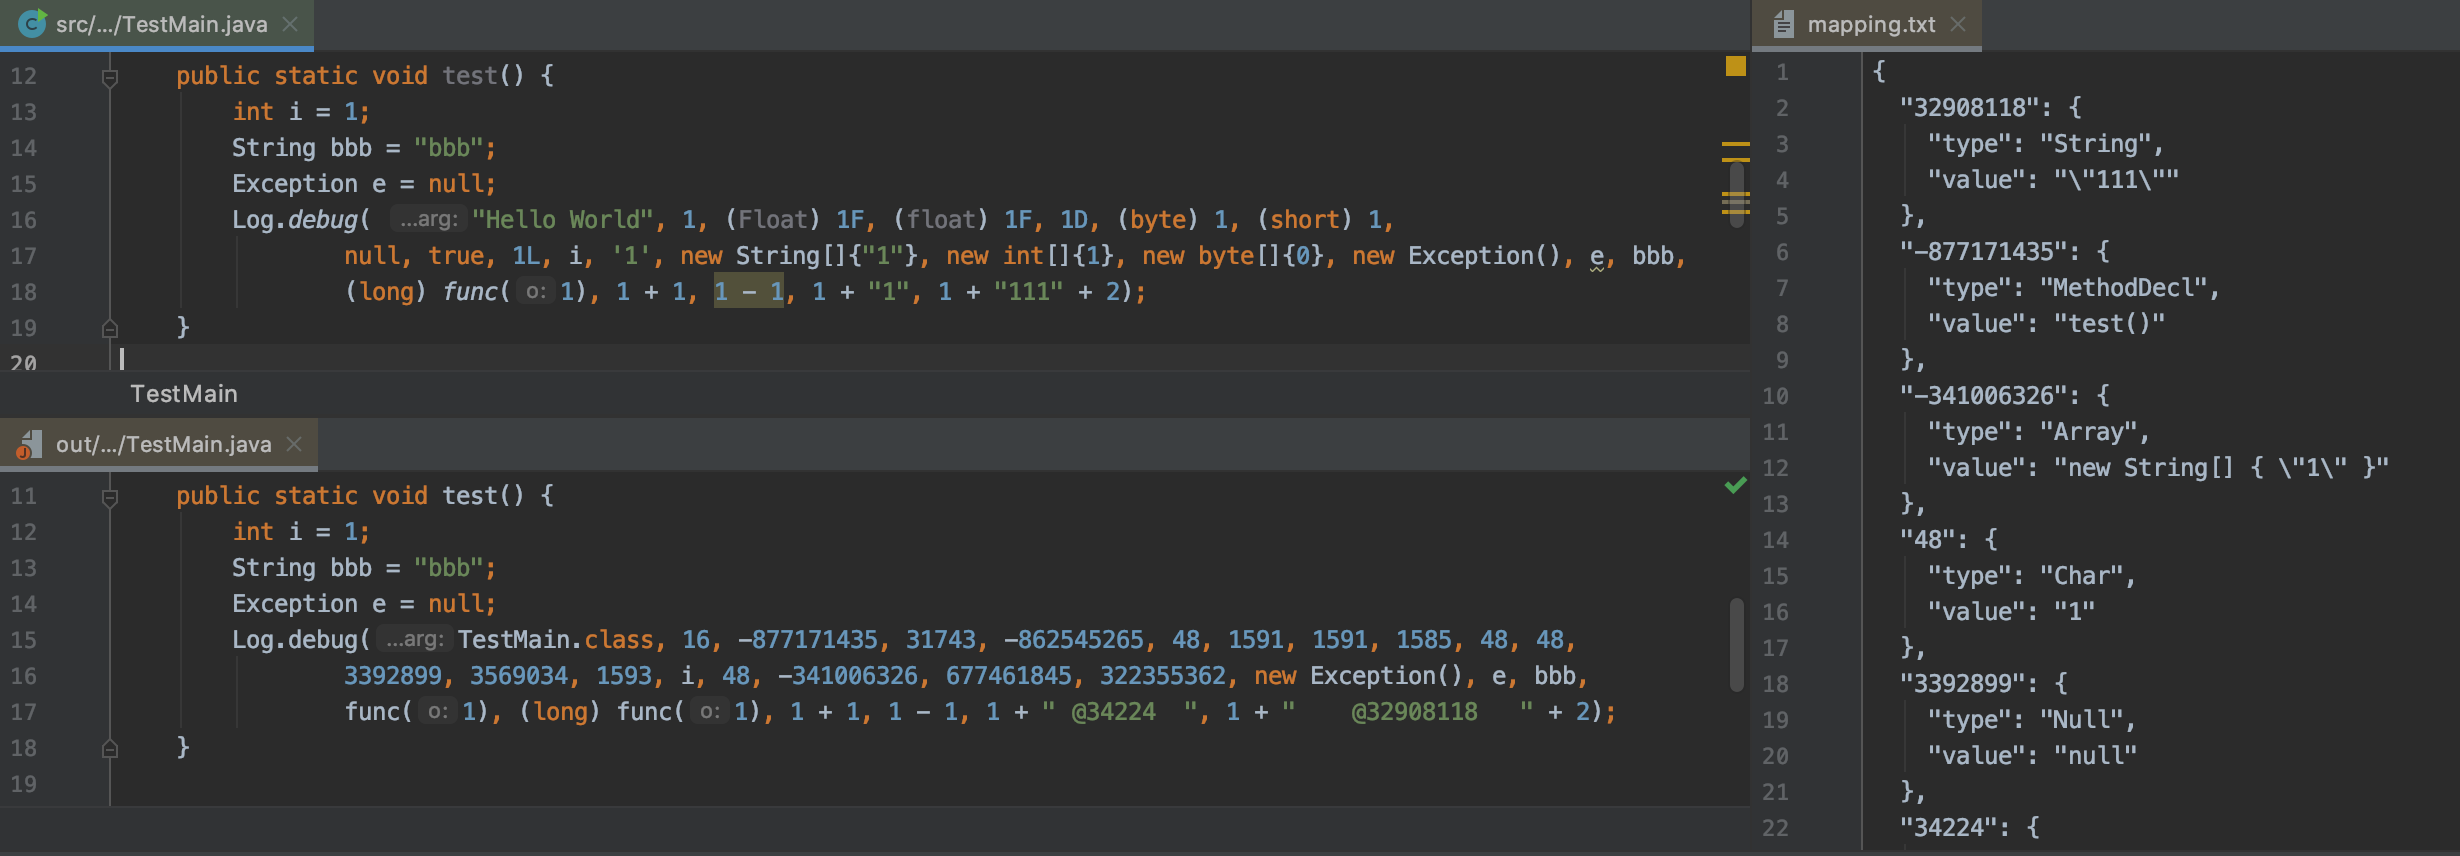
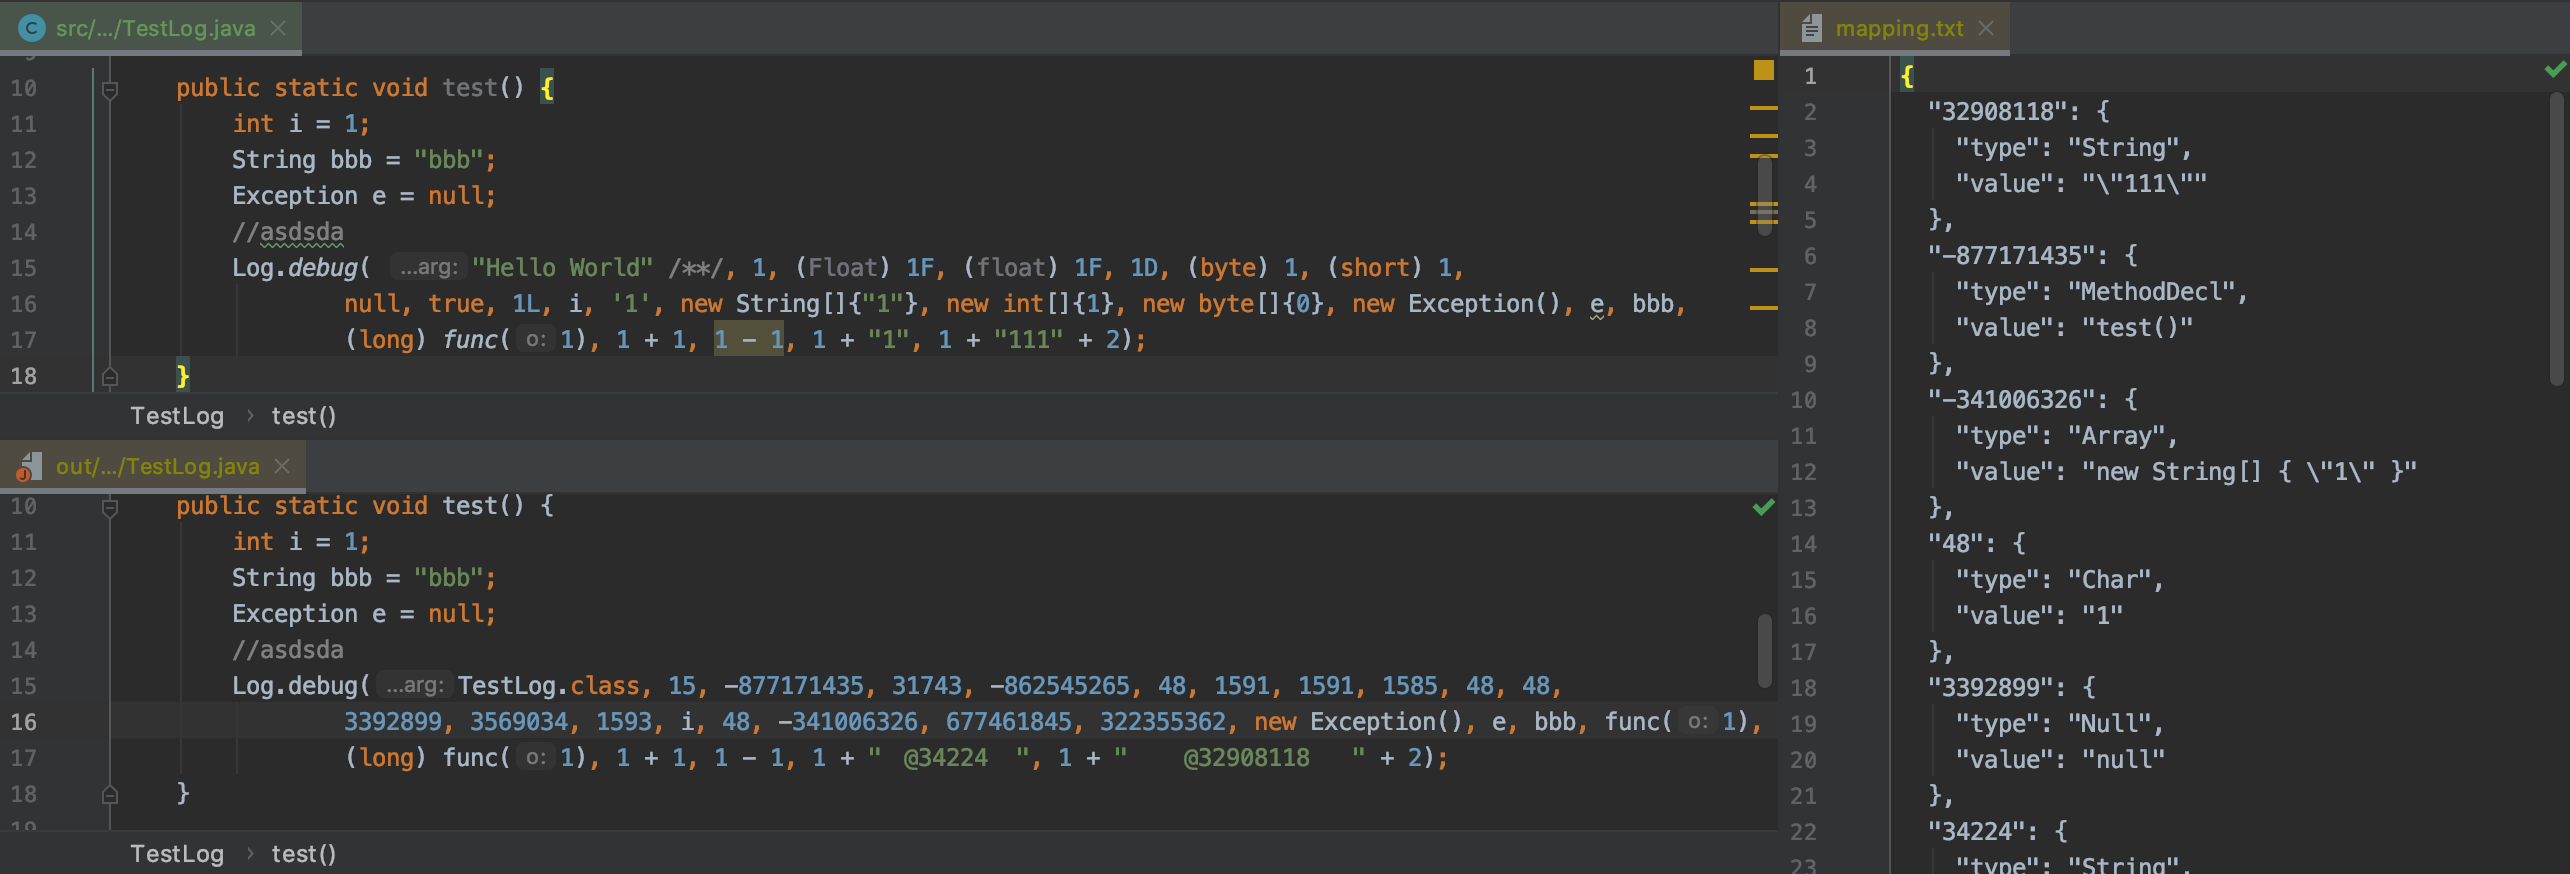
+ 1.0.4 Preserving line number

diff --git a/src/main/java/net/xdow/logmapping/LogProcessor.java b/src/main/java/net/xdow/logmapping/LogProcessor.java
@@ -1,5 +1,6 @@
 package net.xdow.logmapping;
 
+import com.github.javaparser.Range;
 import com.github.javaparser.StaticJavaParser;
 import com.github.javaparser.ast.CompilationUnit;
 import com.github.javaparser.ast.Node;
@@ -17,11 +18,12 @@ import com.github.javaparser.ast.expr.LongLiteralExpr;
 import com.github.javaparser.ast.expr.MethodCallExpr;
 import com.github.javaparser.ast.expr.NullLiteralExpr;
 import com.github.javaparser.ast.expr.StringLiteralExpr;
-import com.github.javaparser.printer.PrettyPrinter;
+import com.github.javaparser.printer.lexicalpreservation.LexicalPreservingPrinter;
 import net.xdow.logmapping.bean.MappingInfo;
 import net.xdow.logmapping.util.EncodeUtils;
 import net.xdow.logmapping.util.JavaParserUtils;
 import net.xdow.logmapping.util.L;
+import net.xdow.logmapping.util.StringUtils;
 
 import java.io.File;
 import java.io.IOException;
@@ -35,7 +37,9 @@ import java.nio.file.attribute.BasicFileAttributes;
 import java.util.Arrays;
 import java.util.HashMap;
 import java.util.HashSet;
+import java.util.Iterator;
 import java.util.List;
+import java.util.Map;
 import java.util.Optional;
 import java.util.Set;
 import java.util.concurrent.ExecutorService;
@@ -75,7 +79,7 @@ public class LogProcessor {
             mEncodedMap = encodedMap;
         }
 
-        public void visit(MethodCallExpr methodCallExpr) {
+        public void visit(MethodCallExpr methodCallExpr, HashMap<String, String> processedMap) {
             int encodedIndexFlag = 0;
             NodeList<Expression> newArgList = new NodeList<>();
             NodeList<Expression> newPreArgList = new NodeList<>();
@@ -104,8 +108,14 @@ public class LogProcessor {
             //encodedIndexFlag
             newPreArgList.add(StaticJavaParser.parseExpression(String.valueOf(encodedIndexFlag)));
 
+            // Preserving line number, there is an bug in LexicalPreservingPrinter, while using methodCallExpr.setArguments
+            // application will stuck in com.github.javaparser.printer.lexicalpreservation.DifferenceElementCalculator.java:152
             newArgList.addAll(0, newPreArgList);
-            methodCallExpr.setArguments(newArgList);
+            MethodCallExpr clone = new MethodCallExpr(methodCallExpr.getScope().orElse(null), methodCallExpr.getNameAsString());;
+            clone.setArguments(newArgList);
+            int extractLineCount = methodCallExpr.getRange().map(Range::getLineCount).orElse(1) - 1;
+            String extractLineBreak = extractLineCount > 0 ? StringUtils.repeat("\n", extractLineCount) : null;
+            processedMap.put(LexicalPreservingPrinter.print(methodCallExpr), clone.toString() + extractLineBreak);
         }
 
         /**
@@ -221,7 +231,6 @@ public class LogProcessor {
         HashMap<Integer, MappingInfo> sEncodedMap = new HashMap<>();
         try {
             ExecutorService pool = Executors.newFixedThreadPool(mParserThreadCount <= 0 ? Runtime.getRuntime().availableProcessors() : mParserThreadCount);
-
             for (String inputDirPath : inputDirPaths) {
                 Path rootPath = Paths.get(inputDirPath);
                 Files.walkFileTree(rootPath, new SimpleFileVisitor<Path>() {
@@ -235,8 +244,10 @@ public class LogProcessor {
                                 L.d("processing file: " + path);
                                 Path localPath = rootPath.relativize(path);
                                 CompilationUnit compilationUnit = StaticJavaParser.parse(path);
-
+                                AtomicReference<Boolean> lexicalPreservingPrinterSetupRef = new AtomicReference<>(false);
+                                AtomicReference<Boolean> foundRef = new AtomicReference<>(false);
                                 MethodCallVisitor visitor = new MethodCallVisitor(sEncodedMap);
+                                HashMap<String, String> processedMap = new HashMap<>();
                                 compilationUnit.findAll(MethodCallExpr.class, methodCallExpr -> {
                                     AtomicReference<Boolean> reference = new AtomicReference<>(false);
                                     //test target package == log package
@@ -262,20 +273,38 @@ public class LogProcessor {
                                     if (!mKeywordSet.contains(methodDeclName)) {
                                         return false;
                                     }
+                                    foundRef.set(true);
                                     return true;
                                 }).forEach(methodCallExpr -> {
                                     try {
+                                        if (!lexicalPreservingPrinterSetupRef.get()) {
+                                            lexicalPreservingPrinterSetupRef.set(true);
+                                            LexicalPreservingPrinter.setup(compilationUnit);
+                                        }
+
                                         String className = rootPath.relativize(path).toString().replaceAll("[\\/]", ".");
                                         String pos = className + ":" + methodCallExpr.getRange().map(range -> range.begin.line).orElse(-1);
                                         L.d("processing " + methodCallExpr.toString() + " on: " + pos);
-                                        visitor.visit(methodCallExpr);
+                                        visitor.visit(methodCallExpr, processedMap);
                                     } catch (Exception e) {
                                         e.printStackTrace();
                                         System.exit(-1);
                                     }
                                 });
                                 compilationUnit.setStorage(Paths.get(outputDirPath).resolve(localPath), StandardCharsets.UTF_8);
-                                compilationUnit.getStorage().ifPresent(storage -> storage.save(new PrettyPrinter()::print));
+                                compilationUnit.getStorage().ifPresent(storage -> storage.save(compilationUnit1 -> {
+                                    // Preserving line number
+                                    String java = LexicalPreservingPrinter.print(compilationUnit1);
+                                    Iterator<Map.Entry<String, String>> it = processedMap.entrySet().iterator();
+                                    while(it.hasNext()) {
+                                        Map.Entry<String, String> entry = it.next();
+                                        String originalCode = entry.getKey();
+                                        String replacedCode = entry.getValue();
+                                        java = java.replace(originalCode, replacedCode);
+                                    }
+                                    return java;
+                                }));
+
                             } catch (IOException e) {
                                 e.printStackTrace();
                                 System.exit(-1);

diff --git a/src/main/java/net/xdow/logmapping/util/StringUtils.java b/src/main/java/net/xdow/logmapping/util/StringUtils.java
@@ -1,0 +1,59 @@
+package net.xdow.logmapping.util;
+
+public class StringUtils {
+
+
+    public static String repeat(String str, int repeat) {
+        if (str == null) {
+            return null;
+        } else if (repeat <= 0) {
+            return "";
+        } else {
+            int inputLength = str.length();
+            if (repeat != 1 && inputLength != 0) {
+                if (inputLength == 1 && repeat <= 8192) {
+                    return repeat(str.charAt(0), repeat);
+                } else {
+                    int outputLength = inputLength * repeat;
+                    switch (inputLength) {
+                        case 1:
+                            return repeat(str.charAt(0), repeat);
+                        case 2:
+                            char ch0 = str.charAt(0);
+                            char ch1 = str.charAt(1);
+                            char[] output2 = new char[outputLength];
+
+                            for (int i = repeat * 2 - 2; i >= 0; --i) {
+                                output2[i] = ch0;
+                                output2[i + 1] = ch1;
+                                --i;
+                            }
+
+                            return new String(output2);
+                        default:
+                            StringBuilder buf = new StringBuilder(outputLength);
+
+                            for (int i = 0; i < repeat; ++i) {
+                                buf.append(str);
+                            }
+
+                            return buf.toString();
+                    }
+                }
+            } else {
+                return str;
+            }
+        }
+    }
+
+    public static String repeat(char ch, int repeat) {
+        char[] buf = new char[repeat];
+
+        for (int i = repeat - 1; i >= 0; --i) {
+            buf[i] = ch;
+        }
+
+        return new String(buf);
+    }
+
+}

diff --git a/src/test/java/net/xdow/logmapping/test/TestLog.java b/src/test/java/net/xdow/logmapping/test/TestLog.java
@@ -1,0 +1,32 @@
+package net.xdow.logmapping.test;
+
+public class TestLog {
+
+
+    public static int func(Object o) {
+        return 1;
+    }
+
+    public static void test() {
+        int i = 1;
+        String bbb = "bbb";
+        Exception e = null;
+        //asdsda
+        Log.debug( "Hello World" /**/, 1, (Float) 1F, (float) 1F, 1D, (byte) 1, (short) 1,
+                null, true, 1L, i, '1', new String[]{"1"}, new int[]{1}, new byte[]{0}, new Exception(), e, bbb,
+                (long) func(1), 1 + 1, 1 - 1, 1 + "1", 1 + "111" + 2);
+    }
+
+
+
+    public static int func1(Object o) {
+        return 1;
+    }
+
+
+
+    public static int func2(Object o) {
+        return 1;
+    }
+
+}

diff --git a/src/test/java/net/xdow/logmapping/test/TestMain.java b/src/test/java/net/xdow/logmapping/test/TestMain.java
@@ -4,20 +4,6 @@ import net.xdow.logmapping.Launcher;
 
 public class TestMain {
 
-
-    public static int func(Object o) {
-        return 1;
-    }
-
-    public static void test() {
-        int i = 1;
-        String bbb = "bbb";
-        Exception e = null;
-        Log.debug( "Hello World", 1, (Float) 1F, (float) 1F, 1D, (byte) 1, (short) 1,
-                null, true, 1L, i, '1', new String[]{"1"}, new int[]{1}, new byte[]{0}, new Exception(), e, bbb,
-                (long) func(1), 1 + 1, 1 - 1, 1 + "1", 1 + "111" + 2);
-    }
-
     public static void main(String[] args) throws Exception {
         Launcher.main(new String[]{
                 "-v",

diff --git a/src/main/java/net/xdow/logmapping/Launcher.java b/src/main/java/net/xdow/logmapping/Launcher.java
@@ -9,7 +9,7 @@ import net.xdow.logmapping.util.L;
 public class Launcher {
 
     private static String getVersionMessage() {
-        return "LogProcessor version 1.0.3";
+        return "LogProcessor version 1.0.4";
     }
 
     public static void main(String[] args) throws Exception {

diff --git a/README.md b/README.md
@@ -26,7 +26,7 @@ cd log-processor
 ## Usage as library
 Gradle:
 ```gradle
-implementation 'net.xdow:log-mapping:1.0.3'
+implementation 'net.xdow:log-mapping:1.0.4'
 ```
 
 Maven:
@@ -34,7 +34,7 @@ Maven:
 <dependency>
     <groupId>net.xdow</groupId>
     <artifactId>log-mapping</artifactId>
-    <version>1.0.3</version>
+    <version>1.0.4</version>
 </dependency>
 ```
 
